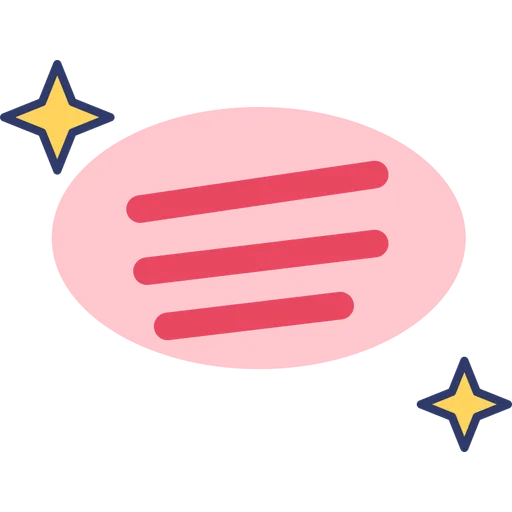
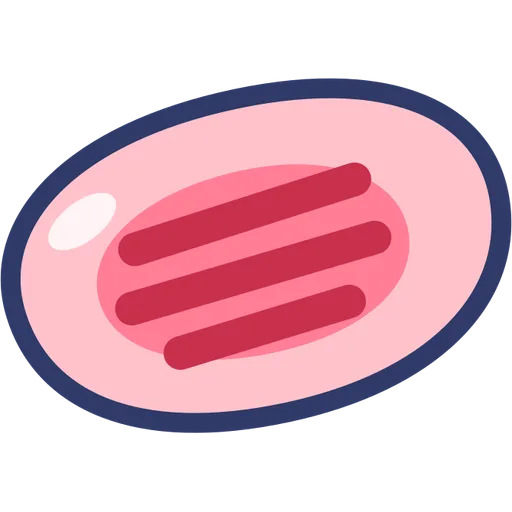
Split rescue into three home games; bandage game: Codex patient art (sad/happy), boo-boo spots computed from each picture's body, clearer boo-boo with pulse ring, bandage flies from first-aid kit

diff --git a/js/games/bandage.js b/js/games/bandage.js
@@ -1,5 +1,6 @@
-// 救護車貼 OK 繃：小動物身上有幾個傷口，點傷口（或把 OK 繃拖過去）貼好就不痛了
-const BANDAGE_PATIENTS=['rabbit','bear','dog','cat','panda','pig','monkey','lion','chick'];
+// 救護車貼 OK 繃：受傷的小動物身上有幾個傷口，點傷口（OK 繃會從醫藥箱飛過去），
+// 或把 OK 繃從下面拖到傷口上，全部貼好就不痛了
+const BANDAGE_PATIENTS=['rabbit','bear','cat','dog','panda'];
 function bandageLevel(L){
   if(L<4)return {cuts:2,drag:false};
   if(L<6)return {cuts:3,drag:false};
@@ -7,61 +8,88 @@ function bandageLevel(L){
   if(L<10)return {cuts:4,drag:true};
   return {cuts:5,drag:true};
 }
-// 傷口位置（以小動物圖的寬高 % 計，避開臉的正中央）
-const BANDAGE_SPOTS=[[30,58],[70,58],[38,78],[62,78],[24,40],[76,40],[50,68],[44,90],[58,46]];
+// 有 Codex 畫的「受傷版」就用它（貼好換成笑臉版），沒有就用一般的小動物圖；
+// 傷口位置由 tools/img/spots.mjs 依每張圖的身體範圍算好（BANDAGE_SPOTS_BY）
+function bandagePatient(id){
+  const hurt='patient_'+id,useHurt=!!(ASSETS[hurt]?.img&&BANDAGE_SPOTS_BY[hurt]);
+  const pic=useHurt?hurt:id;
+  return {pic,happy:useHurt&&ASSETS[hurt+'_happy']?.img?hurt+'_happy':null,spots:BANDAGE_SPOTS_BY[pic]||[]};
+}
 GAMES.bandage = function(stage,L,done){
   const lv=bandageLevel(L),g=gen;
-  const root=div('bandage-game'),bed=div('bandage-patient'),tray=div('row bandage-tray');
+  const root=div('bandage-game'),bed=div('bandage-patient'),bay=div('row bandage-bay');
   const valid=()=>g===gen&&root.isConnected;
   const later=(fn,ms)=>setTimeout(()=>{if(valid())fn()},ms);
-  const whoId=pick(BANDAGE_PATIENTS,1)[0],who=THINGS.find(t=>t.id===whoId);
-  bed.innerHTML=art(who.id,'bandage-animal');
-  let left=lv.cuts,finished=false;
-  const cuts=pick(BANDAGE_SPOTS,lv.cuts).map(([x,y])=>{
-    const c=document.createElement('button');c.className='bandage-cut wiggle';c.setAttribute('aria-label','傷口');
-    c.style.left=x+'%';c.style.top=y+'%';c.innerHTML=art('booboo');
-    if(!lv.drag)c.addEventListener('click',()=>heal(c));
+  const whoId=pick(BANDAGE_PATIENTS.filter(id=>bandagePatient(id).spots.length>=2),1)[0];
+  const who=THINGS.find(t=>t.id===whoId),p=bandagePatient(whoId);
+  if(p.happy)new Image().src=ASSETS[p.happy].img;
+  bed.innerHTML=art(p.pic,'bandage-animal');
+  const total=Math.min(lv.cuts,p.spots.length);
+  let left=total,finished=false;
+  const cuts=pick(p.spots,total).map(([x,y])=>{
+    const c=div('bandage-cut');c.style.left=x+'%';c.style.top=y+'%';c.innerHTML=art('booboo');
     bed.append(c);return c;
   });
-  function heal(c){
-    if(finished||!valid()||c.classList.contains('healed'))return false;
-    c.classList.remove('wiggle');c.classList.add('healed');
-    c.innerHTML=art('bandage');c.style.setProperty('--r',(Math.random()*50-25).toFixed(0)+'deg');
-    tone(880,.08,'triangle');tone(1320,.12,'triangle',.06);buzz(20);
-    left--;const n=lv.cuts-left;say(n===2?'二':NUMS[n-1]);
-    if(left===0){
-      finished=true;
-      later(()=>{
-        bed.classList.add('healed-all');const heart=div('bandage-heart');heart.innerHTML=art('happy_heart');bed.append(heart);
-        sfx.ok();say('不痛不痛了！謝謝救護車！');later(done,1600);
-      },500);
-    }
-    return true;
-  }
-  // 拖曳模式：下面放一排 OK 繃，拖到傷口上
+  const open=()=>cuts.filter(c=>!c.classList.contains('healed')&&!c.classList.contains('healing'));
+  // 救護車和醫藥箱（點的模式）或一排 OK 繃（拖的模式）
+  const amb=div('bandage-amb');amb.innerHTML=art('ambulance');bay.append(amb);
+  const kit=div('bandage-kit');kit.innerHTML=art('first_aid_kit');
   const pads=[];
   if(lv.drag){
-    for(let i=0;i<lv.cuts;i++){
-      const p=div('piece bandage-pad');p.innerHTML=art('bandage');tray.append(p);pads.push(p);
-      makeDraggable(p,(el,x,y)=>{
-        const c=hitTarget(cuts.filter(c=>!c.classList.contains('healed')),x,y,18);
-        return c?heal(c):false;
+    for(let i=0;i<total;i++){
+      const pad=div('piece bandage-pad');pad.innerHTML=art('bandage');bay.append(pad);pads.push(pad);
+      makeDraggable(pad,(el,x,y)=>{
+        const c=hitTarget(open(),x,y,26);
+        if(!c){wrong(el);return false}
+        stick(c);return true;
       });
     }
+  }else{
+    bay.append(kit);
+    // 點傷口附近就算（小手不容易點準）
+    bed.addEventListener('pointerdown',e=>{
+      if(finished||!valid())return;
+      const c=hitTarget(open(),e.clientX,e.clientY,22);if(!c)return;
+      e.preventDefault();fly(c);
+    });
   }
-  root.append(bed);if(lv.drag)root.append(tray);
+  // OK 繃從醫藥箱飛到傷口上
+  function fly(c){
+    c.classList.add('healing');sfx.pop();
+    const a=kit.getBoundingClientRect(),b=c.getBoundingClientRect();
+    const w=b.width*1.5,f=div('bandage-fly');f.innerHTML=art('bandage');
+    f.style.width=f.style.height=w+'px';f.style.left=a.left+a.width/2-w/2+'px';f.style.top=a.top+a.height/2-w/2+'px';
+    document.body.append(f);f.getBoundingClientRect();
+    f.style.transform=`translate(${b.left+b.width/2-a.left-a.width/2}px,${b.top+b.height/2-a.top-a.height/2}px)`;
+    setTimeout(()=>{f.remove();if(valid())stick(c)},430);
+  }
+  function stick(c){
+    if(finished||!valid())return;
+    c.classList.remove('healing');c.classList.add('healed');
+    c.innerHTML=art('bandage');c.style.setProperty('--r',(Math.random()*50-25).toFixed(0)+'deg');
+    tone(880,.08,'triangle');tone(1320,.12,'triangle',.06);buzz(20);
+    left--;const n=total-left;say(n===2?'二':NUMS[n-1]);
+    if(left>0)return;
+    finished=true;
+    later(()=>{
+      if(p.happy)bed.querySelector('.bandage-animal').outerHTML=art(p.happy,'bandage-animal');
+      bed.classList.add('healed-all');const heart=div('bandage-heart');heart.innerHTML=art('happy_heart');bed.append(heart);
+      sfx.ok();say('不痛不痛了！謝謝救護車！');later(done,1800);
+    },500);
+  }
+  root.append(bed,bay);
   stage.append(root);
   say(who.n+'受傷了，幫牠貼OK繃');
   idleHint(()=>{
     if(finished||!valid())return;
-    const c=cuts.find(c=>!c.classList.contains('healed'));if(!c)return;
+    const c=open()[0];if(!c)return;
     if(!lv.drag)return {tap:c};
-    const p=pads.find(p=>!p.classList.contains('placed'));return p&&{from:p,to:c};
+    const pad=pads.find(x=>!x.classList.contains('placed'));return pad&&{from:pad,to:c};
   });
   return ()=>{
     const W=stage.clientWidth-24,H=stage.clientHeight-24;
-    const size=Math.min(W*.9,(lv.drag?H*.66:H*.86),460);
-    root.style.setProperty('--pet',size+'px');
-    stage.style.setProperty('--s',Math.max(56,Math.min(96,(W-14*(lv.cuts-1))/lv.cuts,H*.2))+'px');
+    const s=Math.max(56,Math.min(90,(W-60-12*total)/(total+1),H*.16));
+    stage.style.setProperty('--s',s+'px');
+    root.style.setProperty('--pet',Math.min(W*.96,H-s-30,480)+'px');
   };
 };

diff --git a/css/style.css b/css/style.css
@@ -94,23 +94,6 @@ button:focus-visible{outline:4px solid var(--berry);outline-offset:3px}
   transition:transform .28s cubic-bezier(.3,1.4,.5,1);cursor:grab}
 .piece.dragging{transition:none;z-index:50;box-shadow:0 14px 0 var(--ink);cursor:grabbing}
 .piece.placed{visibility:hidden}
-.rescue-calls,.rescue-garage{flex-wrap:nowrap;align-items:center;flex-shrink:0}
-.rescue-card{position:relative;display:grid;place-items:center;flex:none;width:calc(var(--s)*1.35);height:calc(var(--s)*1.35);
-  background:var(--paper);border:4px solid var(--ink);border-radius:24%;box-shadow:0 6px 0 var(--ink);cursor:pointer}
-.rescue-card.wiggle{animation:rescue-wiggle 2.4s ease-in-out infinite}
-.rescue-card.shake{animation:shake .35s}
-@keyframes rescue-wiggle{0%,100%{transform:rotate(-2deg)}50%{transform:rotate(2deg)}}
-.rescue-card .rescue-scene{font-size:calc(var(--s)*.95)}
-.rescue-card.rescued{border-color:#4CC38A;box-shadow:0 6px 0 #4CC38A;animation:pop .4s}
-.rescue-card.rescued .rescue-scene{opacity:.55}
-.rescue-done{position:absolute;right:-6px;bottom:-6px;display:grid;place-items:center;width:calc(var(--s)*.52);height:calc(var(--s)*.52);
-  background:var(--paper);border:3px solid #4CC38A;border-radius:50%;font-size:calc(var(--s)*.35)}
-.rescue-bay{width:var(--s);height:var(--s);flex:none}
-.rescue-car.dispatching{visibility:hidden;pointer-events:none}
-.rescue-drive{position:fixed;display:grid;place-items:center;width:var(--s);height:var(--s);font-size:calc(var(--s)*.85);
-  pointer-events:none;z-index:60;animation:rescue-drive .8s ease-in-out both}
-@keyframes rescue-drive{0%,100%{transform:translate(0,0)}45%,60%{transform:translate(var(--dx),var(--dy)) scale(1.1)}}
-@media(prefers-reduced-motion:reduce){.rescue-drive{animation:none!important}}
 .ball{border-radius:50%;background:radial-gradient(circle at 30% 28%,rgba(255,255,255,.75) 0 13%,rgba(255,255,255,0) 14%),var(--bc)}
 .basket{width:calc(var(--s)*1.3);min-height:calc(var(--s)*1.15);background:var(--bc);border:4px solid var(--ink);
   border-radius:16px 16px 40px 40px;box-shadow:0 6px 0 var(--ink);display:flex;flex-wrap:wrap;align-content:flex-end;
@@ -412,10 +395,6 @@ button.piece{cursor:pointer}
 }
 #home{overflow-y:auto}
 /* ---------- 救援大隊：選車 ---------- */
-#game.hub #progress{visibility:hidden}
-.rescue-hub{flex:1;display:flex;flex-direction:column;justify-content:center;gap:18px;width:min(100%,420px);padding:10px 8px}
-.rescue-pick{flex-direction:row!important;justify-content:flex-start!important;gap:18px;padding:14px 22px!important;font-size:clamp(22px,6vw,30px)!important;min-height:96px}
-.rescue-pick .art,.rescue-pick .emoji{font-size:2.4em}
 /* ---------- 消防車滅火 ---------- */
 .fire-game{flex:1;width:100%;display:flex;flex-direction:column;align-items:center;justify-content:center}
 .fire-scene{position:relative;width:100%;flex:1;display:flex;flex-direction:column;align-items:center;justify-content:space-around}
@@ -435,15 +414,25 @@ button.piece{cursor:pointer}
 .fire-splash .art{width:100%;height:100%}
 /* ---------- 救護車貼 OK 繃 ---------- */
 .bandage-game{flex:1;width:100%;display:flex;flex-direction:column;align-items:center;justify-content:space-around}
-.bandage-patient{position:relative;width:var(--pet,300px);height:var(--pet,300px)}
-.bandage-patient>.bandage-animal{width:100%;height:100%;font-size:var(--pet,300px)}
+.bandage-patient{position:relative;width:var(--pet,300px);height:var(--pet,300px);touch-action:none}
+.bandage-patient>.bandage-animal{width:100%;height:100%;font-size:calc(var(--pet,300px)*.8)}
 .bandage-patient.healed-all>.bandage-animal{animation:boing .7s}
-.bandage-cut{position:absolute;width:calc(var(--pet,300px)*.27);height:calc(var(--pet,300px)*.27);transform:translate(-50%,-50%) rotate(var(--r,0deg));padding:0;display:grid;place-items:center}
-.bandage-cut .art,.bandage-cut .emoji{width:100%;height:100%;font-size:calc(var(--pet,300px)*.17)}
-.bandage-cut.healed{animation:pop .35s}
-.bandage-heart{position:absolute;left:50%;top:6%;width:30%;height:30%;transform:translateX(-50%);animation:boing .8s;pointer-events:none}
+/* 傷口：中心對準算好的位置（用 margin 置中，動畫的 transform 才不會把它推歪） */
+.bandage-cut{position:absolute;width:calc(var(--pet,300px)*.2);height:calc(var(--pet,300px)*.2);margin:calc(var(--pet,300px)*-.1) 0 0 calc(var(--pet,300px)*-.1);
+  display:grid;place-items:center;pointer-events:none}
+.bandage-cut>.art,.bandage-cut>.emoji{width:100%;height:100%;font-size:calc(var(--pet,300px)*.15);animation:wiggle 1.2s ease-in-out infinite}
+.bandage-cut::after{content:'';position:absolute;inset:-14%;border-radius:50%;border:4px solid #fff;box-shadow:0 0 0 3px #FF7F95;animation:cut-ring 1.4s ease-out infinite}
+@keyframes cut-ring{0%{transform:scale(.75);opacity:.95}100%{transform:scale(1.3);opacity:0}}
+.bandage-cut.healing::after,.bandage-cut.healed::after{display:none}
+.bandage-cut.healed>.art,.bandage-cut.healed>.emoji{width:150%;height:150%;max-width:none;flex:none;rotate:var(--r,0deg);animation:pop .35s}
+.bandage-fly{position:fixed;z-index:60;pointer-events:none;transition:transform .4s cubic-bezier(.3,.8,.4,1)}
+.bandage-fly>.art,.bandage-fly>.emoji{width:100%;height:100%;font-size:calc(var(--s)*.6)}
+.bandage-heart{position:absolute;left:35%;top:2%;width:30%;height:30%;animation:boing .8s;pointer-events:none}
 .bandage-heart .art{width:100%;height:100%}
-.bandage-tray{gap:10px}
+.bandage-bay{gap:12px;align-items:flex-end;flex-wrap:nowrap}
+.bandage-amb,.bandage-kit{width:var(--s);height:var(--s);display:grid;place-items:center;flex:none}
+.bandage-amb .art,.bandage-amb .emoji,.bandage-kit .art,.bandage-kit .emoji{width:100%;height:100%;font-size:calc(var(--s)*.8)}
+.bandage-kit{width:calc(var(--s)*1.15);height:calc(var(--s)*1.15)}
 .bandage-pad{border-radius:24%}
 /* ---------- 警車走迷宮 ---------- */
 .maze-game{flex:1;width:100%;display:flex;flex-direction:column;align-items:center;justify-content:center;gap:10px}

diff --git a/js/assets.js b/js/assets.js
@@ -129,6 +129,9 @@ const ASSETS = {
   kitten_full_orange: { emoji: '🐱', img: 'assets/game/hide/kitten_full_orange.webp' },
   // 救援大隊三個小遊戲（Claude 用 SVG 畫的，tools/img/svg/）
   flame: { emoji: '🔥', img: 'assets/game/mini/flame.webp' }, smoke_puff: { emoji: '☁', img: 'assets/game/mini/smoke_puff.webp' }, water_splash: { emoji: '💦', img: 'assets/game/mini/water_splash.webp' }, booboo: { emoji: '🩹', img: 'assets/game/mini/booboo.webp' }, bandage: { emoji: '🩹', img: 'assets/game/mini/bandage.webp' }, happy_heart: { emoji: '💖', img: 'assets/game/mini/happy_heart.webp' }, paw_print: { emoji: '🐾', img: 'assets/game/mini/paw_print.webp' }, bone: { emoji: '🦴', img: 'assets/game/mini/bone.webp' }, dog_house: { emoji: '🛖', img: 'assets/game/mini/dog_house.webp' }, maze_bush: { emoji: '🌳', img: 'assets/game/mini/maze_bush.webp' },
+  // 救護車貼 OK 繃：受傷的小病人（Codex 畫，哭哭／笑笑兩張）＋醫藥箱（Claude 畫）
+  first_aid_kit: { emoji: '🧰', img: 'assets/game/mini/first_aid_kit.webp' },
+  patient_rabbit: { emoji: '🐰', img: 'assets/game/mini/patient_rabbit.webp' }, patient_rabbit_happy: { emoji: '🐰', img: 'assets/game/mini/patient_rabbit_happy.webp' }, patient_bear: { emoji: '🐻', img: 'assets/game/mini/patient_bear.webp' }, patient_bear_happy: { emoji: '🐻', img: 'assets/game/mini/patient_bear_happy.webp' }, patient_cat: { emoji: '🐱', img: 'assets/game/mini/patient_cat.webp' }, patient_cat_happy: { emoji: '🐱', img: 'assets/game/mini/patient_cat_happy.webp' }, patient_dog: { emoji: '🐶', img: 'assets/game/mini/patient_dog.webp' }, patient_dog_happy: { emoji: '🐶', img: 'assets/game/mini/patient_dog_happy.webp' }, patient_panda: { emoji: '🐼', img: 'assets/game/mini/patient_panda.webp' }, patient_panda_happy: { emoji: '🐼', img: 'assets/game/mini/patient_panda_happy.webp' },
 };
 // Legacy sticker saves contain emoji strings. Keep their storage format intact.
 // Aliases (Ruby shares cat's fallback) keep the original sticker id.

diff --git a/index.html b/index.html
@@ -23,8 +23,8 @@
 <script defer src="js/games/shadow.js"></script>
 <script defer src="js/games/memory.js"></script>
 <script defer src="js/games/color.js"></script>
-<script defer src="js/games/rescue.js"></script>
 <script defer src="js/games/fire.js"></script>
+<script defer src="js/games/bandage-spots.js"></script>
 <script defer src="js/games/bandage.js"></script>
 <script defer src="js/games/maze.js"></script>
 <script defer src="js/games/shop.js"></script>
@@ -57,7 +57,9 @@
       <button class="game-btn" data-game="shadow" style="--c:#FFD35C"><span data-art="elephant"></span><span>找影子</span></button>
       <button class="game-btn" data-game="memory" style="--c:#FF9EC0"><span data-art="cards"></span><span>翻翻樂</span></button>
       <button class="game-btn" data-game="color" style="--c:#9FD8FF"><span data-art="palette"></span><span>顏色分類</span></button>
-      <button class="game-btn" data-game="rescue" style="--c:#FFB3A7"><span data-art="fire_truck"></span><span>救援大隊</span></button>
+      <button class="game-btn" data-game="fire" style="--c:#FFB3A7"><span data-art="fire_truck"></span><span>消防車滅火</span></button>
+      <button class="game-btn" data-game="bandage" style="--c:#FFD6E7"><span data-art="ambulance"></span><span>救護車OK繃</span></button>
+      <button class="game-btn" data-game="maze" style="--c:#B5E3FF"><span data-art="police_car"></span><span>警車走迷宮</span></button>
       <button class="game-btn" data-game="shop" style="--c:#FFB77A"><span data-art="store"></span><span>小小商店</span></button>
       <button class="game-btn" data-game="pattern" style="--c:#C9B5FF"><span data-art="repeat"></span><span>規律接龍</span></button>
       <button class="game-btn" data-game="size" style="--c:#A8E6B8"><span data-art="ruler"></span><span>大小排排站</span></button>

diff --git a/js/main.js b/js/main.js
@@ -1,6 +1,6 @@
 renderStaticArt();
 
-const PROMPTS={shadow:'幫它們找到影子',memory:'找出一樣的兩張',color:'把球放進一樣顏色的籃子',rescue:'',fire:'',bandage:'',maze:'',
+const PROMPTS={shadow:'幫它們找到影子',memory:'找出一樣的兩張',color:'把球放進一樣顏色的籃子',fire:'',bandage:'',maze:'',
   puzzle:'把拼圖拼起來',shop:'',hide:'',feed:'',pattern:'下一個是什麼呢？',size:'從小排到大'};
 const PROMPT_EVERY_ROUND={pattern:1,size:1};
 
@@ -36,7 +36,7 @@ function cheer(big){
   $('#cheer').hidden=false;el.style.animation='none';void el.offsetWidth;el.style.animation='';
   if(!reduceMotion)confetti(big?160:70);
 }
-function startGame(name){stopHints();gen++;current=name;round=0;$('#game').classList[name==='rescue'?'add':'remove']('hub');show('game');if(PROMPTS[name])say(PROMPTS[name]);const g=gen;requestAnimationFrame(()=>{if(g===gen)nextRound()})}
+function startGame(name){stopHints();gen++;current=name;round=0;show('game');if(PROMPTS[name])say(PROMPTS[name]);const g=gen;requestAnimationFrame(()=>{if(g===gen)nextRound()})}
 var reloadOnHome=false; // 有新版待套用時，回首頁就重新整理
 function goHome(){stopHints();gen++;hushVoice();current=null;relayout=null;$('#cheer').hidden=true;stage.innerHTML='';$('#starCount').textContent=stars;show('home');paintHomeRuby();if(reloadOnHome)location.reload()}
 

diff --git a/sw.js b/sw.js
@@ -1,11 +1,11 @@
 // Before every deploy run: node scripts/bump-sw.mjs
-const SW_VERSION = '20261024T061329573Z';
+const SW_VERSION = '20261028T065622770Z';
 const CACHE_PREFIX = 'ruby-pwa-';
 const CACHE_NAME = CACHE_PREFIX + SW_VERSION;
 const APP_SHELL = [
   './index.html', './css/style.css', './manifest.webmanifest',
   './js/voice-map.js', './js/core.js', './js/bgm.js', './js/assets.js', './js/data.js',
-  './js/games/shadow.js', './js/games/memory.js', './js/games/color.js', './js/games/rescue.js', './js/games/fire.js', './js/games/bandage.js', './js/games/maze.js',
+  './js/games/shadow.js', './js/games/memory.js', './js/games/color.js', './js/games/fire.js', './js/games/bandage-spots.js', './js/games/bandage.js', './js/games/maze.js',
   './js/games/shop.js', './js/games/feed.js', './js/games/puzzle.js',
   './js/games/pattern.js', './js/games/size.js', './js/games/hide.js', './js/ruby.js', './js/home.js', './js/main.js'
 ];

diff --git a/js/games/bandage-spots.js b/js/games/bandage-spots.js
@@ -1,0 +1,2 @@
+// 由 tools/img/spots.mjs 產生：每張小動物圖上可以放傷口的位置（圖寬高的 %）
+const BANDAGE_SPOTS_BY={"rabbit":[[54,82],[27,77],[73,87],[39,91]],"patient_rabbit":[[50,75],[76,71],[24,71],[33,92],[67,92]],"bear":[[50,69],[11,83],[88,83],[63,92],[37,91],[29,68]],"patient_bear":[[50,67],[86,64],[14,64],[29,92],[71,92],[50,87]],"cat":[[43,64],[71,83],[50,84],[63,64],[31,79]],"patient_cat":[[44,67],[83,73],[14,86],[61,89],[21,64],[64,62]],"dog":[[48,76],[89,77],[68,90],[29,90],[32,61],[57,61]],"patient_dog":[[46,65],[89,80],[14,86],[62,88],[71,64],[16,62]],"panda":[[52,64],[68,92],[36,91],[75,69],[35,71]],"patient_panda":[[52,66],[19,86],[79,89],[84,61],[16,61],[40,84]]};

diff --git a/DECIDED.md b/DECIDED.md
@@ -69,3 +69,4 @@
 - 首頁：手機上用扁長按鈕，10 個遊戲＋露比的家放得下
 - 2026-10-24：「救援大隊」改成選車畫面＋三個小遊戲：消防車滅火（點火噴水）、救護車貼 OK 繃、警車走迷宮帶小狗回家
 - App 版首頁超出螢幕：已改成扁長按鈕（確認正常）
+- 2026-10-28：救援大隊拆成三個獨立遊戲放首頁（消防車滅火、救護車 OK 繃、警車走迷宮，共 12 個）；救護車改用 Codex 畫的「哭哭／笑笑」受傷小動物，傷口依圖自動算在手腳肚子上（不再跑到臉或身體外），傷口有閃爍圈、OK 繃從醫藥箱飛過去貼；新台詞配音暫不處理
